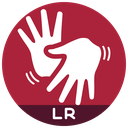
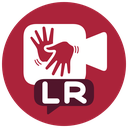
Integra a câmera de reunião e destaca o monograma LR

diff --git a/README.md b/README.md
@@ -17,6 +17,6 @@ Nesta versão, o ícone da extensão abre um painel lateral em português. A cap
 - `painel/` contém o HTML e os estilos da interface.
 - `assets/logo.svg` contém a marca circular. Os ícones PNG da extensão ficam em `assets/icones/`.
 
-As duas mãos e as linhas de movimento da marca foram adaptadas do [símbolo Acessível em Libras, criado pelo Centro de Comunicação da UFMG](https://www.ufmg.br/marca/libras/). A adaptação usa as cores e o monograma do projeto.
+As duas mãos e as linhas de movimento da marca foram adaptadas do [símbolo Acessível em Libras, criado pelo Centro de Comunicação da UFMG](https://www.ufmg.br/marca/libras/). Na marca do projeto, as mãos aparecem dentro de uma câmera de vídeo e o monograma LR lembra a identificação de um participante da chamada.
 
 Adaptado do exemplo oficial [Global Side Panel](https://github.com/GoogleChrome/chrome-extensions-samples/tree/main/functional-samples/cookbook.sidepanel-global), licenciado sob a [Apache License 2.0](LICENSE).
